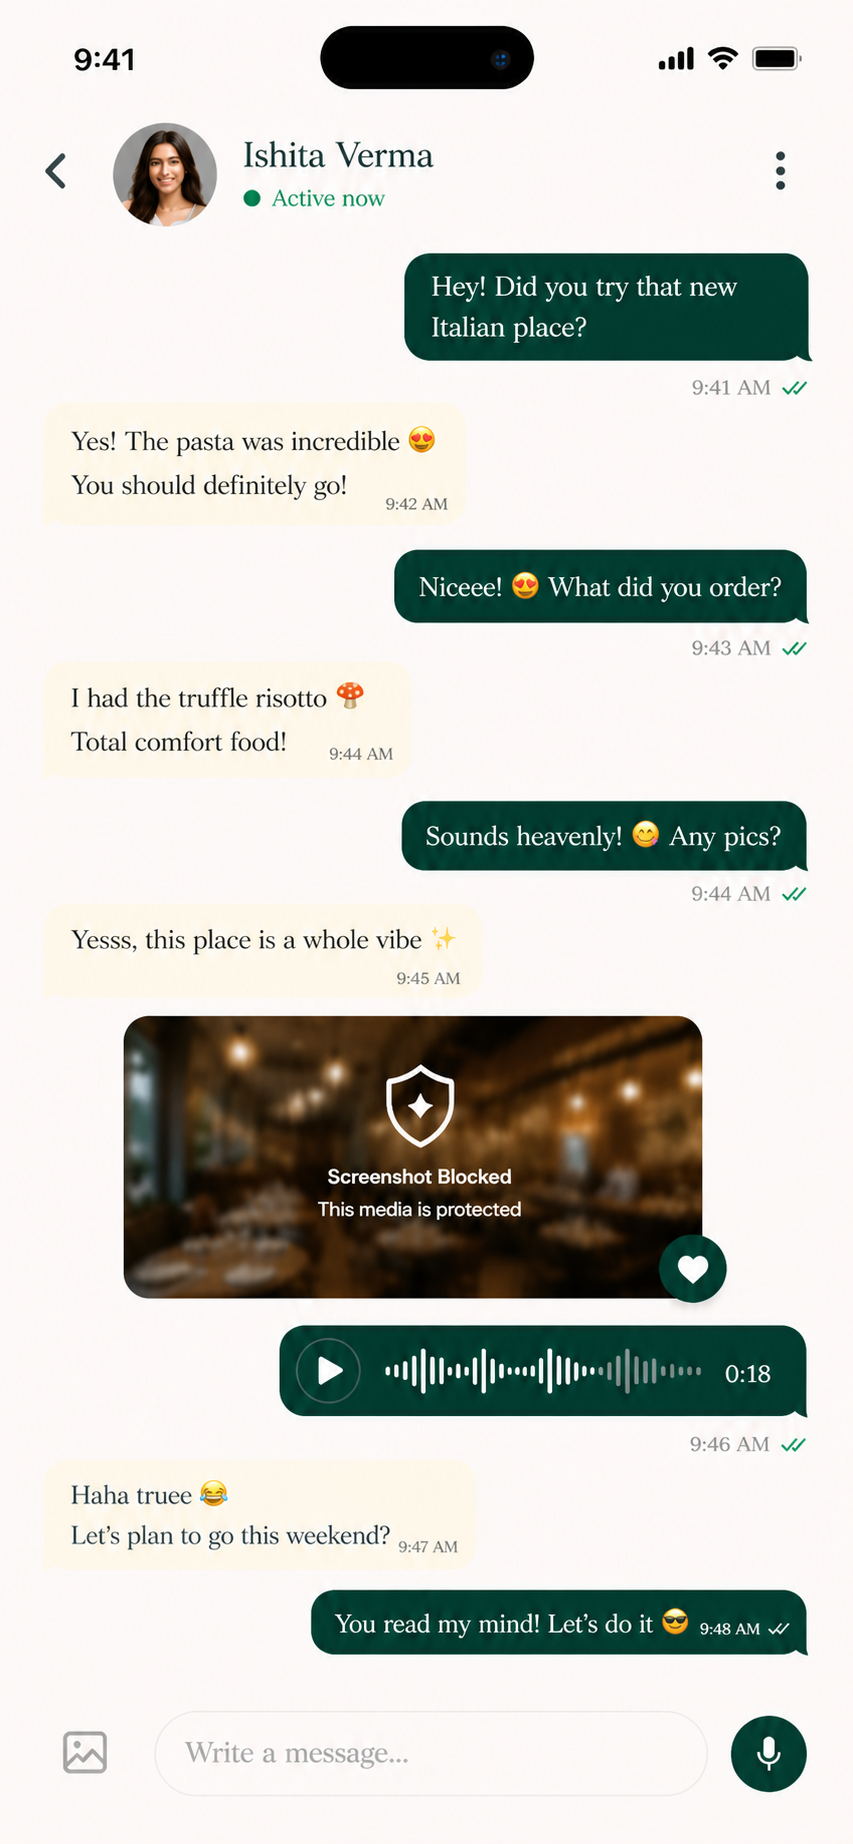
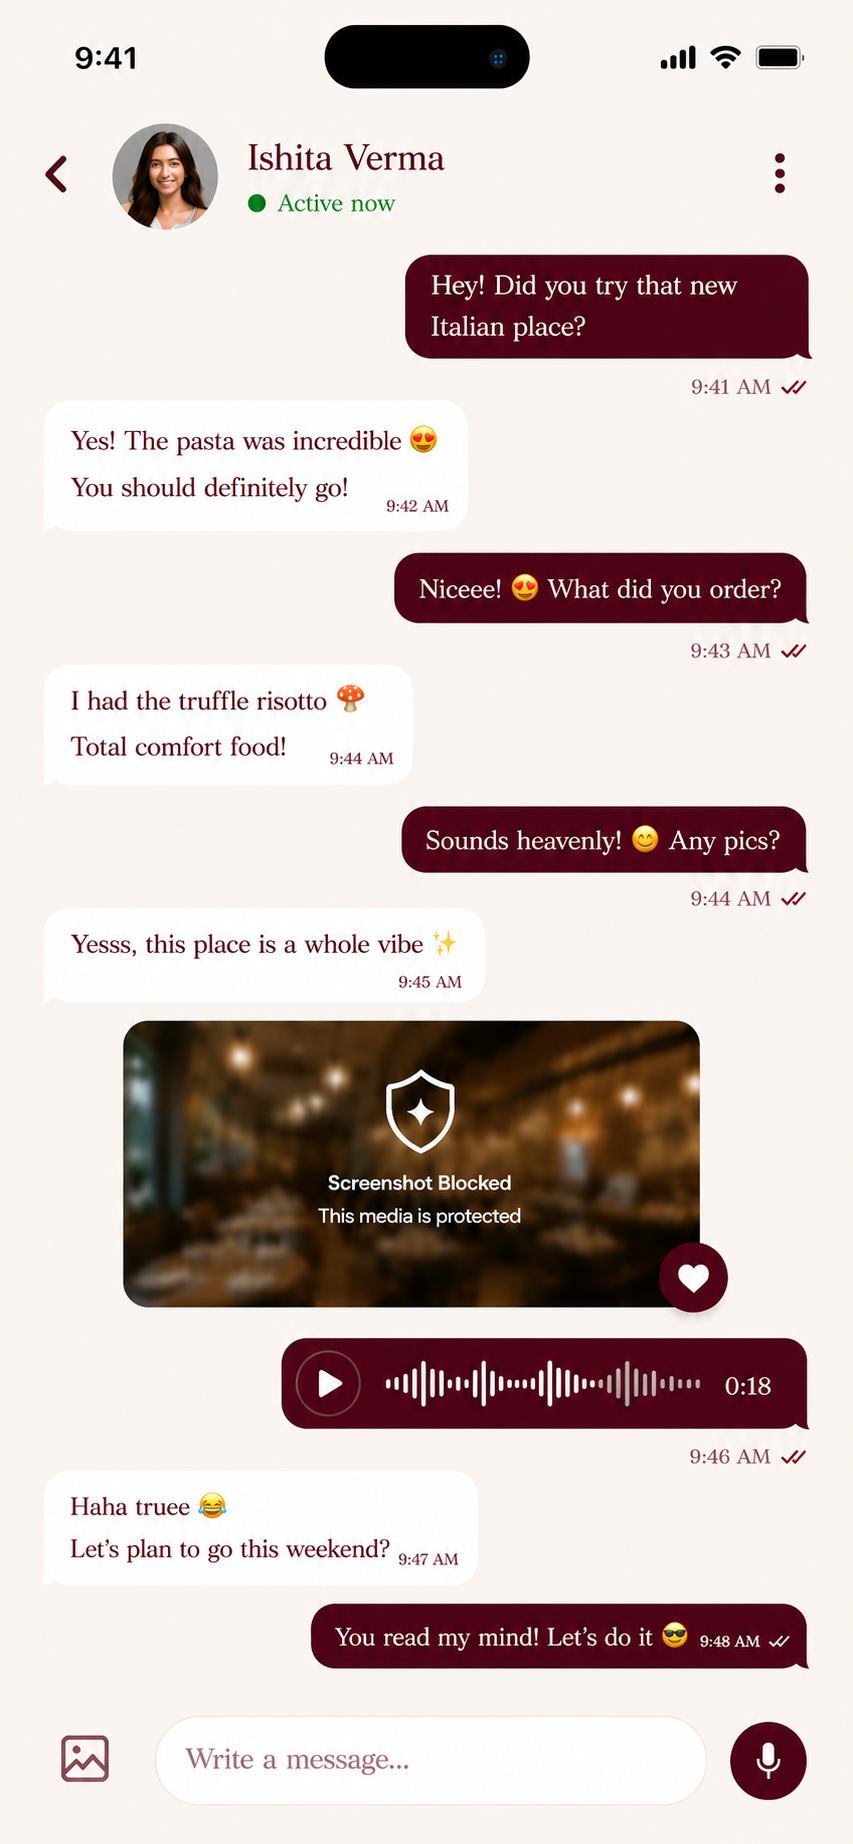
Wine color

diff --git a/src/index.css b/src/index.css
@@ -3,20 +3,20 @@
 
 @theme {
   /* ── Boutique Club Palette ─────────────────────────────────────────── */
-  --color-cream: #FCF5F1;       /* Theme_Background  – Warm Blush White   */
-  --color-tan: #F9F8F6;          /* Surface_Card      – Warm Off-White     */
-  --color-heading: #2A2725;      /* Heading text      – Deep Warm Dark     */
-  --color-ink-black: #45413E;    /* Text_Info         – Warm Dark          */
-  --color-emerald: #1A362D;      /* Text_Highlight    – Deep Emerald       */
-  --color-emerald-dark: #122620; /* Button hover      – Darker Emerald     */
-  --color-gold: #D4AF37;         /* Accent_Action     – Champagne Gold     */
-  --color-bone: #EAEAEE;         /* Border_Subtle     – Light Ash          */
+  --color-cream: #F5EFE6;       /* Theme_Background  – Cashmere Warm Cream */
+  --color-tan: #FFFFFF;          /* Surface_Card      – Pure White          */
+  --color-heading: #2A2725;      /* Heading text      – Deep Warm Dark      */
+  --color-ink-black: #45413E;    /* Text_Info         – Warm Dark           */
+  --color-emerald: #540F24;      /* Text_Highlight    – Wine                */
+  --color-emerald-dark: #3D0A1A; /* Button hover      – Deep Wine           */
+  --color-gold: #D4A3A5;         /* Accent             – Soft Blush         */
+  --color-bone: #EAEAEE;         /* Border_Subtle     – Light Ash           */
 
-  /* ── Legacy aliases (keep variable names; remap to new palette) ────── */
-  --color-rose: #D4AF37;         /* was rose, now maps to Champagne Gold   */
-  --color-rose-light: #C9A42E;   /* was rose-light, now darker gold hover  */
-  --color-rose-pale: #FBF5E0;    /* was rose-pale, now light gold tint     */
-  --color-ink-muted: #756F68;    /* warm muted text                        */
+  /* ── Legacy aliases (remap to new palette) ─────────────────────────── */
+  --color-rose: #D4A3A5;         /* → Soft Blush                            */
+  --color-rose-light: #BE9294;   /* → Darker Blush (hover)                  */
+  --color-rose-pale: #F5E4E5;    /* → Light Blush Tint (icon bgs)           */
+  --color-ink-muted: #756F68;    /* warm muted text                         */
 
   --font-heading: 'Gabarito', sans-serif;
   --font-body: 'Figtree', sans-serif;
@@ -65,6 +65,7 @@
     border-radius: 25px;
   }
 
+  /* Wine primary button with white text */
   .clush-btn-primary {
     background-color: var(--color-emerald);
     color: #FFFFFF;
@@ -87,23 +88,23 @@
     transition: background-color 0.2s ease;
   }
 
-  /* rgba values tuned to match --color-cream: #FCF5F1 = rgb(252,245,241) */
+  /* rgba values tuned to match --color-cream: #F5EFE6 = rgb(245,239,230) */
   .clush-glass {
-    background: rgba(252, 245, 241, 0.88);
+    background: rgba(245, 239, 230, 0.88);
     backdrop-filter: blur(16px);
     -webkit-backdrop-filter: blur(16px);
   }
 
   .clush-glass-header {
-    background: rgba(252, 245, 241, 0.88);
+    background: rgba(245, 239, 230, 0.88);
     backdrop-filter: blur(16px);
     -webkit-backdrop-filter: blur(16px);
     border-bottom: 0.5px solid var(--color-bone);
   }
 
-  /* Translucent pill nav — very slightly more transparent than before */
+  /* Translucent pill nav */
   .clush-pill-header {
-    background: rgba(252, 245, 241, 0.60);
+    background: rgba(245, 239, 230, 0.60);
     backdrop-filter: blur(20px);
     -webkit-backdrop-filter: blur(20px);
     border: 1px solid var(--color-bone);
@@ -116,6 +117,7 @@
     border-top: 2px solid var(--color-bone);
   }
 
+  /* Blush accent line */
   .clush-accent-line {
     width: 3px;
     height: 16px;
@@ -128,6 +130,7 @@
     background: linear-gradient(to bottom, transparent 50%, rgba(69, 65, 62, 0.6) 100%);
   }
 
+  /* Blush → Wine gradient for editorial text */
   .clush-text-gradient {
     background: linear-gradient(135deg, var(--color-gold) 0%, var(--color-emerald) 100%);
     -webkit-background-clip: text;
@@ -135,6 +138,7 @@
     background-clip: text;
   }
 
+  /* Wine gradient button with white text */
   .clush-btn-gradient {
     background-color: var(--color-emerald);
     color: #FFFFFF;

diff --git a/src/pages/Features.jsx b/src/pages/Features.jsx
@@ -402,13 +402,13 @@ const ProgressIndicator = memo(function ProgressIndicator({ activeIndex, onDotCl
             width: i === activeIndex ? 6 : 5,
             height: i === activeIndex ? 22 : 5,
             borderRadius: 999,
-            background: i === activeIndex ? '#D4AF37' : '#EAEAEE',
+            background: i === activeIndex ? '#D4A3A5' : '#EAEAEE',
             border: 'none',
             cursor: 'pointer',
             transition: 'all 0.3s cubic-bezier(0.4,0,0.2,1)',
             padding: 0,
           }}
-          onFocus={(e) => { e.currentTarget.style.outline = '2px solid #CD9D8F'; e.currentTarget.style.outlineOffset = '3px'; }}
+          onFocus={(e) => { e.currentTarget.style.outline = '2px solid #D4A3A5'; e.currentTarget.style.outlineOffset = '3px'; }}
           onBlur={(e) => { e.currentTarget.style.outline = 'none'; }}
         />
       ))}
@@ -465,7 +465,7 @@ const FeatureTextBlock = memo(function FeatureTextBlock({ feature, isActive }) {
               initial={{ width: 0 }}
               animate={{ width: 40 }}
               transition={{ delay: 0.5, duration: 0.8 }}
-              style={{ height: 3, background: '#D4AF37', marginTop: 12, borderRadius: 2 }}
+              style={{ height: 3, background: '#D4A3A5', marginTop: 12, borderRadius: 2 }}
             />
           </motion.h2>
 
@@ -877,7 +877,7 @@ function FeaturesMobile() {
                 </span>
                 <h2 className="text-3xl font-[Gabarito] font-bold italic leading-tight mb-4" style={{ whiteSpace:'pre-line' }}>
                   {feature.headline}
-                  <div style={{ width: 32, height: 2.5, background: '#D4AF37', marginTop: 10, borderRadius: 2 }} />
+                  <div style={{ width: 32, height: 2.5, background: '#D4A3A5', marginTop: 10, borderRadius: 2 }} />
                 </h2>
                 <p className="text-sm text-[var(--color-ink-muted)] font-[Figtree] leading-relaxed mb-8">
                   {feature.description}

diff --git a/src/pages/Safety.jsx b/src/pages/Safety.jsx
@@ -9,7 +9,7 @@ const SafetyNode = ({ icon: Icon, title, desc, delay, x, y }) => (
     viewport={{ once: true }}
     transition={{ duration: 0.8, delay, ease: "easeOut" }}
     whileHover={{ y: y - 10, scale: 1.02, transition: { duration: 0.3 } }}
-    className="absolute w-72 h-72 rounded-[20px] p-10 flex flex-col items-center justify-center text-center gap-6 bg-[#F9F8F6] border border-[var(--color-bone)] shadow-2xl group overflow-hidden"
+    className="absolute w-72 h-72 rounded-[20px] p-10 flex flex-col items-center justify-center text-center gap-6 bg-white border border-[var(--color-bone)] shadow-2xl group overflow-hidden"
   >
     <div className="w-16 h-16 rounded-2xl bg-[var(--color-rose)] flex items-center justify-center rotate-12 group-hover:rotate-0 transition-transform duration-500 shadow-xl shadow-rose/20">
       <Icon className="w-8 h-8 text-white" />
@@ -115,7 +115,7 @@ const Safety = () => {
       </section>
 
       {/* Trust Manifesto */}
-      <section className="py-40 px-6 bg-white border-t-2 border-[var(--color-bone)] relative overflow-hidden">
+      <section className="py-40 px-6 bg-[var(--color-cream)] border-t-2 border-[var(--color-bone)] relative overflow-hidden">
         <div className="max-w-4xl mx-auto text-center relative z-10">
            <SectionHeading>The Transparency Report</SectionHeading>
            <h2 className="text-4xl md:text-7xl font-[Gabarito] font-bold italic mb-16 px-4">Our promise is written in <span className="text-[var(--color-emerald)]">code.</span></h2>

diff --git a/src/pages/About.jsx b/src/pages/About.jsx
@@ -60,7 +60,7 @@ const About = () => {
     <div className="px-6 pb-24 relative overflow-hidden bg-[var(--color-cream)]">
       {/* Background Decorative Element */}
       <div className="absolute inset-0 pointer-events-none opacity-20 z-0 select-none flex items-center justify-center">
-         <span className="text-[40vw] md:text-[30vw] font-bold uppercase italic tracking-[-0.05em] leading-none select-none" style={{ color: '#F9F8F6' }}>CLUSH</span>
+         <span className="text-[40vw] md:text-[30vw] font-bold uppercase italic tracking-[-0.05em] leading-none select-none" style={{ color: '#FFFFFF' }}>CLUSH</span>
       </div>
 
       <section className="relative pt-32 pb-40 text-center max-w-4xl mx-auto z-10">

diff --git a/src/pages/ClushPlus.jsx b/src/pages/ClushPlus.jsx
@@ -156,7 +156,7 @@ const ClushPlus = () => {
       </section>
 
       {/* ── Features ──────────────────────────────────────── */}
-      <section className="bg-[#F9F8F6] py-24 px-6">
+      <section className="bg-white py-24 px-6">
         <div className="max-w-6xl mx-auto">
           <div className="text-center mb-16">
             <motion.div
